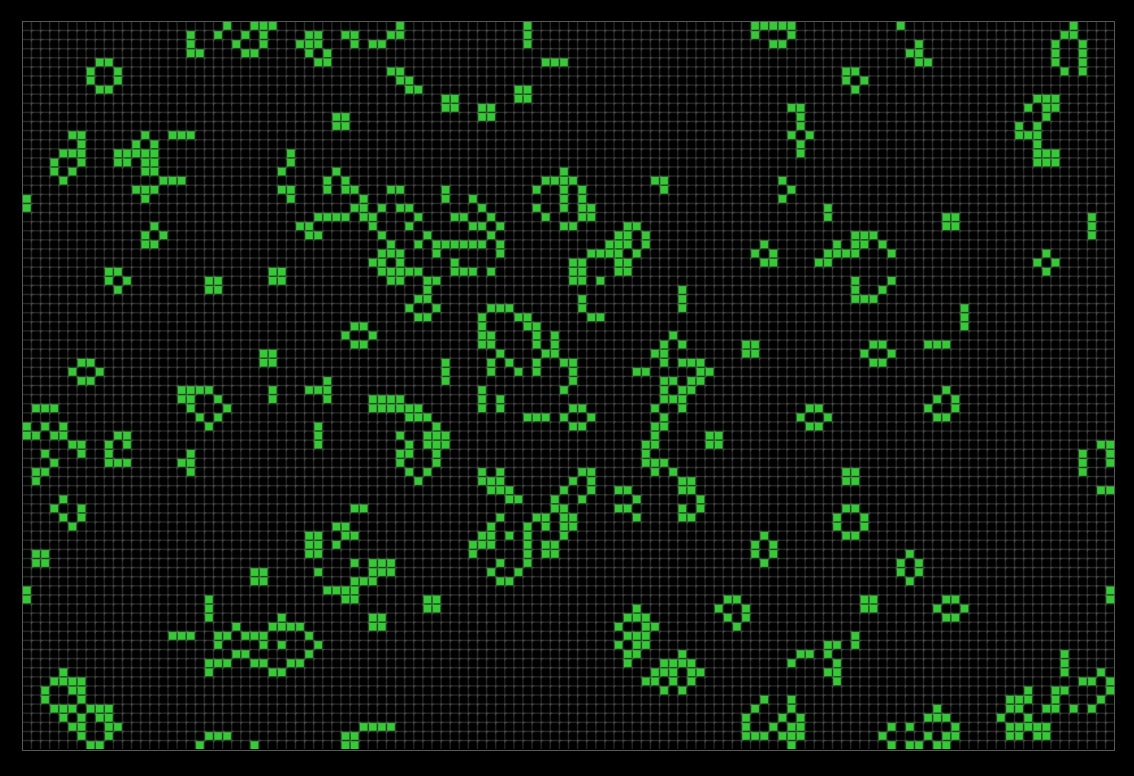
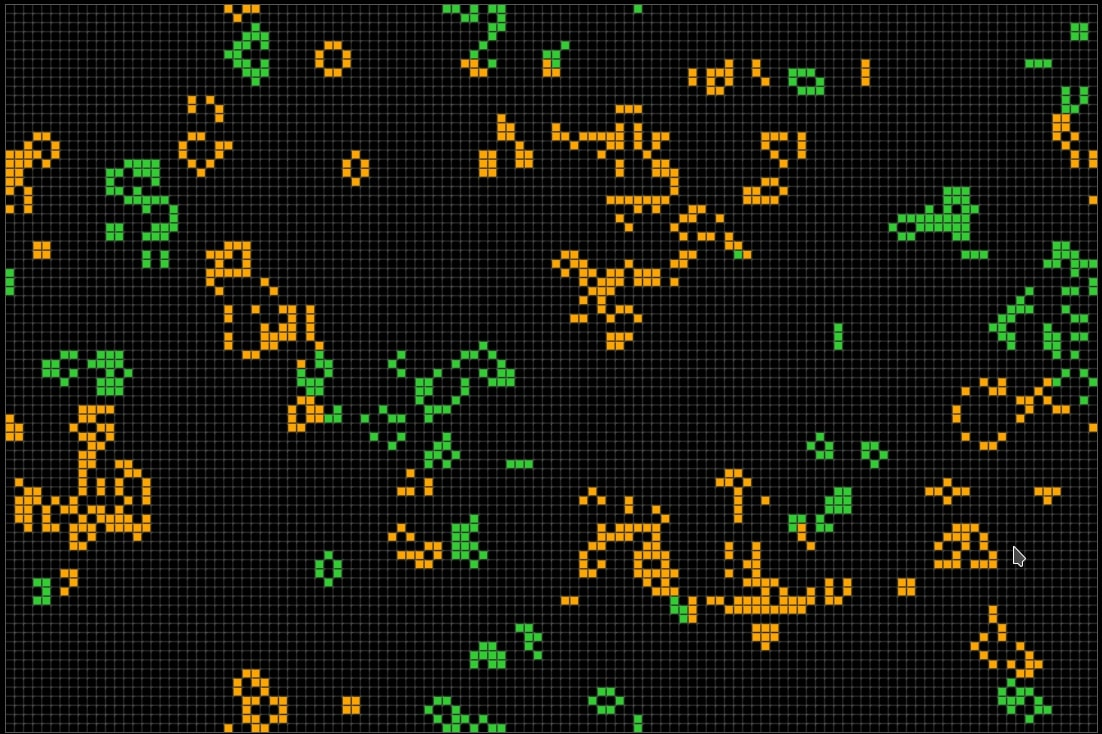
2 colors variation

diff --git a/script.js b/script.js
@@ -10,7 +10,8 @@
 
   let gen = [];
   let generation;
-  let population;
+  let pop1;
+  let pop2;
   let tickDelay = 75;
 
   let canvas;
@@ -19,7 +20,7 @@
 
   let allowDrawing = true;
   let isDrawing = false;
-  let isErasing;
+  let drawColor = 1;
 
   const ctrl = {};
 
@@ -72,6 +73,15 @@
     window.addEventListener('mouseup', () => (isDrawing = false));
     canvas.addEventListener('mousemove', handleDrawing);
     canvas.addEventListener('click', handleDrawing);
+    canvas.addEventListener('contextmenu', function(e) {
+      if (e.button == 2) {
+        e.preventDefault();
+      }
+    });
+
+    ctrl.progressBar = document.querySelector('.progress .bar');
+    ctrl.pop1 = document.querySelector('.pop1');
+    ctrl.pop2 = document.querySelector('.pop2');
   }
 
   function drawGrid() {
@@ -100,11 +110,14 @@
   function generateField({ density = DENSITY }) {
     gen = [];
     generation = 0;
-    population = 0;
+    pop1 = 0;
+    pop2 = 0;
     for (var i = 0; i < ROWS; i++) {
       for (var j = 0, row = []; j < COLS; j++) {
-        row[j] = Math.random() < density ? (population++, 1) : 0;
-        population += row[j];
+        const rnd = Math.random();
+        row[j] = rnd < density ? (rnd < density / 2 ? 1 : 2) : 0;
+        if (row[j] === 1) pop1++;
+        if (row[j] === 2) pop2++;
       }
       gen.push(row);
     }
@@ -116,7 +129,7 @@
   function drawField() {
     for (var i = 0; i < ROWS; i++) {
       for (var j = 0; j < COLS; j++) {
-        ctx.fillStyle = gen[i][j] ? 'limegreen' : 'black';
+        ctx.fillStyle = ['black', 'limegreen', 'orange'][gen[i][j]];
         const x1 = j * (CELLSIZE + 1);
         const y1 = i * (CELLSIZE + 1);
         ctx.fillRect(x1, y1, CELLSIZE, CELLSIZE);
@@ -157,7 +170,8 @@
 
   function nextGeneration() {
     const nextGen = [];
-    population = 0;
+    pop1 = 0;
+    pop2 = 0;
     for (var i = 0; i < ROWS; i++) {
       for (var j = 0, row = []; j < COLS; j++) {
         const iprev = i === 0 ? ROWS - 1 : i - 1;
@@ -174,11 +188,12 @@
           gen[inext][j],
           gen[inext][jnext],
         ];
-        const value = around.filter((_) => !!_).length;
-        if (value === 2) row[j] = gen[i][j];
-        if (value === 3) row[j] = 1;
-        if (value < 2 || value > 3) row[j] = 0;
-        population += row[j];
+        const alive = around.filter((_) => !!_);
+        if (alive.length === 2) row[j] = gen[i][j];
+        if (alive.length === 3) row[j] = alive.filter((_) => _ === 1).length > 1 ? 1 : 2;
+        if (alive.length < 2 || alive.length > 3) row[j] = 0;
+        if (row[j] === 1) pop1++;
+        if (row[j] === 2) pop2++;
       }
       nextGen.push(row);
     }
@@ -193,7 +208,8 @@
 
   function updateCounters() {
     ctrl.genCounter.innerText = generation;
-    ctrl.popCounter.innerText = population;
+    ctrl.popCounter.innerText = pop1 + pop2;
+    updateProgress();
   }
 
   function handleMouseDown(e) {
@@ -201,7 +217,7 @@
     isDrawing = true;
     const i = (e.offsetY / (CELLSIZE + 1)) | 0;
     const j = (e.offsetX / (CELLSIZE + 1)) | 0;
-    isErasing = gen[i][j];
+    drawColor = gen[i][j] ? 0 : e.button ? 2 : 1;
   }
 
   function handleDrawing(e) {
@@ -209,10 +225,16 @@
     if (e.type === 'mousemove' && !isDrawing) return;
     const i = (e.offsetY / (CELLSIZE + 1)) | 0;
     const j = (e.offsetX / (CELLSIZE + 1)) | 0;
-    gen[i][j] = isErasing ? 0 : 1;
+    gen[i][j] = drawColor;
     const x1 = j * (CELLSIZE + 1);
     const y1 = i * (CELLSIZE + 1);
-    ctx.fillStyle = isErasing ? 'black' : 'limegreen';
+    ctx.fillStyle = ['black', 'limegreen', 'orange'][drawColor];
     ctx.fillRect(x1, y1, CELLSIZE, CELLSIZE);
+  }
+
+  function updateProgress() {
+    ctrl.progressBar.style.width = `${Math.round((pop1 / (pop1 + pop2)) * 1000) / 10}%`;
+    ctrl.pop1.innerText = pop1;
+    ctrl.pop2.innerText = pop2;
   }
 })();

diff --git a/index.html b/index.html
@@ -15,18 +15,28 @@
     </div>
     <div class="panel">
       <h1 class="lighter">Conway's Game of Life</h1>
-      <p>
+      <div class="wikilink">
         <a
           target="_blank"
           href="https://ru.wikipedia.org/wiki/%D0%98%D0%B3%D1%80%D0%B0_%C2%AB%D0%96%D0%B8%D0%B7%D0%BD%D1%8C%C2%BB"
         >
           Read on Wikipedia
         </a>
-      </p>
+      </div>
       <div class="counters">
         <p class="counter">Generation:<br/> <span id="gen_counter">0</span></span>
         <p class="counter">Population:<br/> <span id="pop_counter">0</span></span>
       </div>
+      <div class="progress-wrapper">
+        <div class="progress">
+          <div class="bar"></div>
+        </div>
+        <div class="row">
+          <div class="pop1">50.0%</div>
+          <div class="pop2">50.0%</div>
+        </div>
+      </div>
+
       <div class="controls">
         <div class="row">
           <button id="play">Play</button>
@@ -36,14 +46,17 @@
 
             <button id="clear">Clear</button>
   
-            <button id="generate">Generate</button>
+            <button id="generate">Fill</button>
          </div>
-         <p class="hint">
-           Hint: You allow to draw on a canvas when game is paused or not started yet.
-         </p>
-         <div class="row">
+
+         <div class="row" style="margin-top: 40px">
            <button id="faster">2x Speed</button>
          </div>
+
+         <p class="hint">
+            Hint: You allow to draw on a canvas when game is paused or not started yet. <br/>
+            Left button - to draw <span style="color: limegreen">green</span>, right - <span style="color: orange">orange</span>.
+          </p>
       </div>
     </div>
   </body>

diff --git a/style.css b/style.css
@@ -70,6 +70,12 @@ a:active {
   text-decoration: none;
 }
 
+.wikilink {
+  font-size: 14px;
+  text-align: right;
+  margin-top: -10px;
+}
+
 .controls {
   max-width: 300px;
 }
@@ -95,9 +101,39 @@ a:active {
   margin-top: 50px;
   margin-bottom: 50px;
   line-height: 1.6;
+  font-size: 14px;
 }
 
 button.active {
   color: limegreen;
   border-color: limegreen;
+}
+
+.progress-wrapper {
+  margin: 20px 0 30px;
+  font-size: 14px;
+  max-width: 300px;
+}
+
+.progress {
+  width: 100%;
+  height: 6px;
+  background: orange;
+  margin-bottom: 5px;
+}
+
+.progress .bar {
+  width: 50%;
+  height: 100%;
+  background: limegreen;
+  transition: width linear 0.2s;
+}
+
+.progress::after {
+  display: block;
+  content: '';
+  width: 50%;
+  height: 15px;
+  border-right: 1px solid white;
+  transform: translateX(-1px);
 }

diff --git a/README.md b/README.md
@@ -1,9 +1,15 @@
-# Conway's Game of Life
+# Conway's Game of Life - 2 colors
 
-Conway's Game of Life made with HTML5 Canvas.
+Conway's Game of Life made with HTML5 Canvas. Two colors variation.
 
 [Live Demo](https://ashelkov.github.io/canvas-game-of-life/)
 
 [Read on Wikipedia](https://ru.wikipedia.org/wiki/%D0%98%D0%B3%D1%80%D0%B0_%C2%AB%D0%96%D0%B8%D0%B7%D0%BD%D1%8C%C2%BB)
 
-![Tree Collage](./screenshot.jpg)
+Field:
+
+![Field](./screenshot.jpg)
+
+Controls:
+
+![Controls](./screenshot2.jpg)
